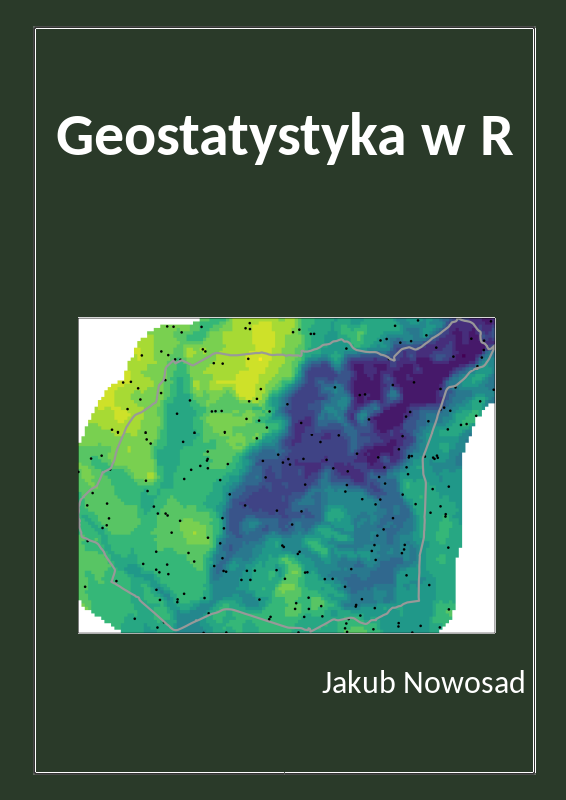
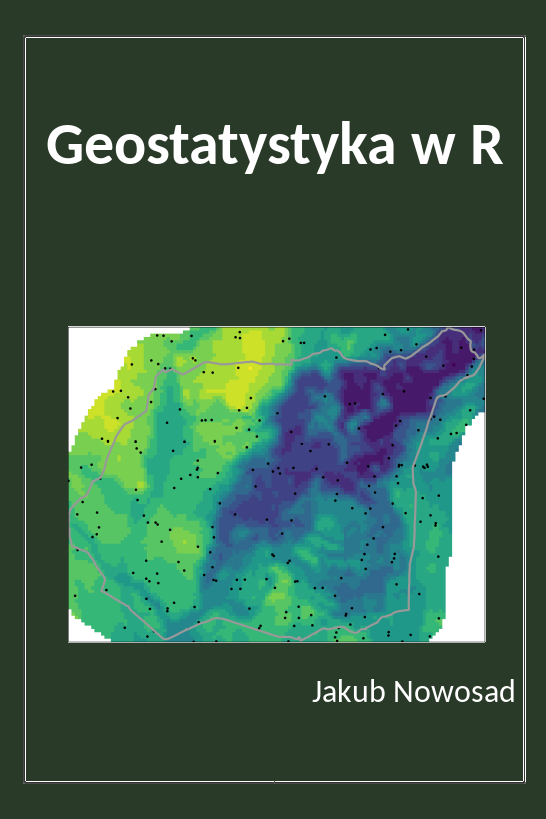
adds the cover and copyright page

diff --git a/latex/before_body.tex b/latex/before_body.tex
@@ -1,0 +1,17 @@
+\thispagestyle{empty}
+\includepdf{Rfigs/book_cover2.png}
+
+\let\maketitle\oldmaketitle
+\maketitle
+
+\thispagestyle{empty}
+\vspace*{\fill}
+Wydanie drugie, Poznań 2019 \\
+Space A \\
+Książka wydana na licencji Creative Commons BY \& SA \\
+Więcej informacji \url{https://bookdown.org/nowosad/Geostatystyka/} \\
+\\
+\\
+{\large ISBN: 978-83-953296-0-9}
+
+
